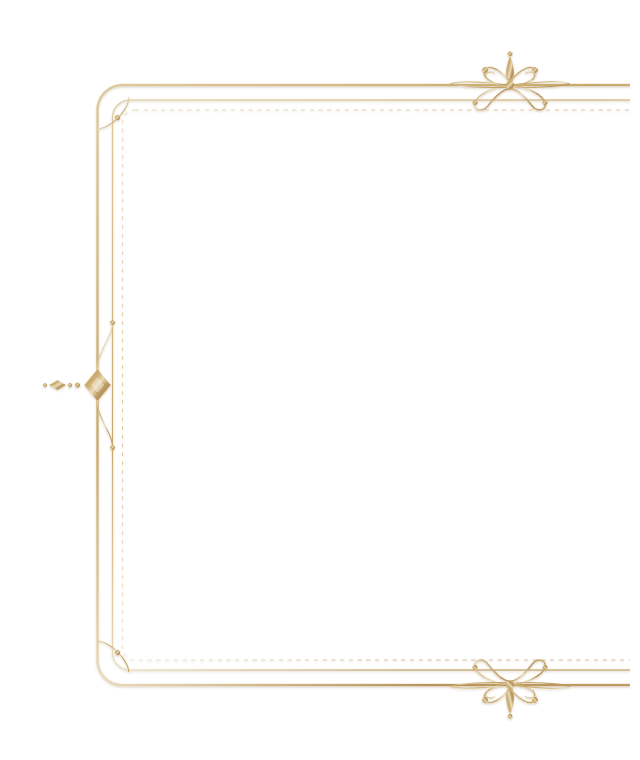
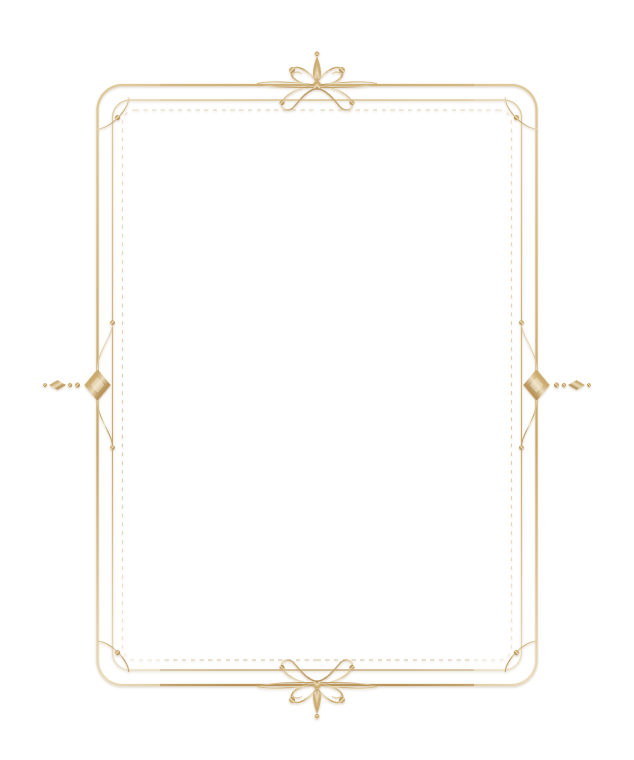
wedding: rebuild calendar-frame.png (was cropped on the right) + match CSS ratio/padding
Claude-Session: https://claude.ai/code/session_01XarCidM3VXHKcQKzd4d7xT

diff --git a/wedding/index.html b/wedding/index.html
@@ -13,7 +13,7 @@
     rel="stylesheet"
   />
 
-  <link rel="stylesheet" href="css/style.css?v=4" />
+  <link rel="stylesheet" href="css/style.css?v=5" />
 </head>
 <body>
 
@@ -157,7 +157,7 @@
       </div>
 
       <div class="calendar-frame">
-        <img class="calendar-frame-img" src="images/calendar-frame.png" alt="" aria-hidden="true" />
+        <img class="calendar-frame-img" src="images/calendar-frame.png?v=2" alt="" aria-hidden="true" />
         <div class="calendar" id="calendar"></div>
       </div>
 

diff --git a/wedding/css/style.css b/wedding/css/style.css
@@ -1190,3 +1190,8 @@ body.lightbox-open { overflow: hidden; }
   box-sizing: border-box;
   padding: 20cqw 15cqw 17.5cqw;
 }
+
+
+/* ---- Calendar frame PNG rebuilt (was cropped on the right): 634x760 ---- */
+.calendar-frame { aspect-ratio: 634 / 760; }
+.calendar { padding: 20cqw 18.5cqw 17.5cqw; }
